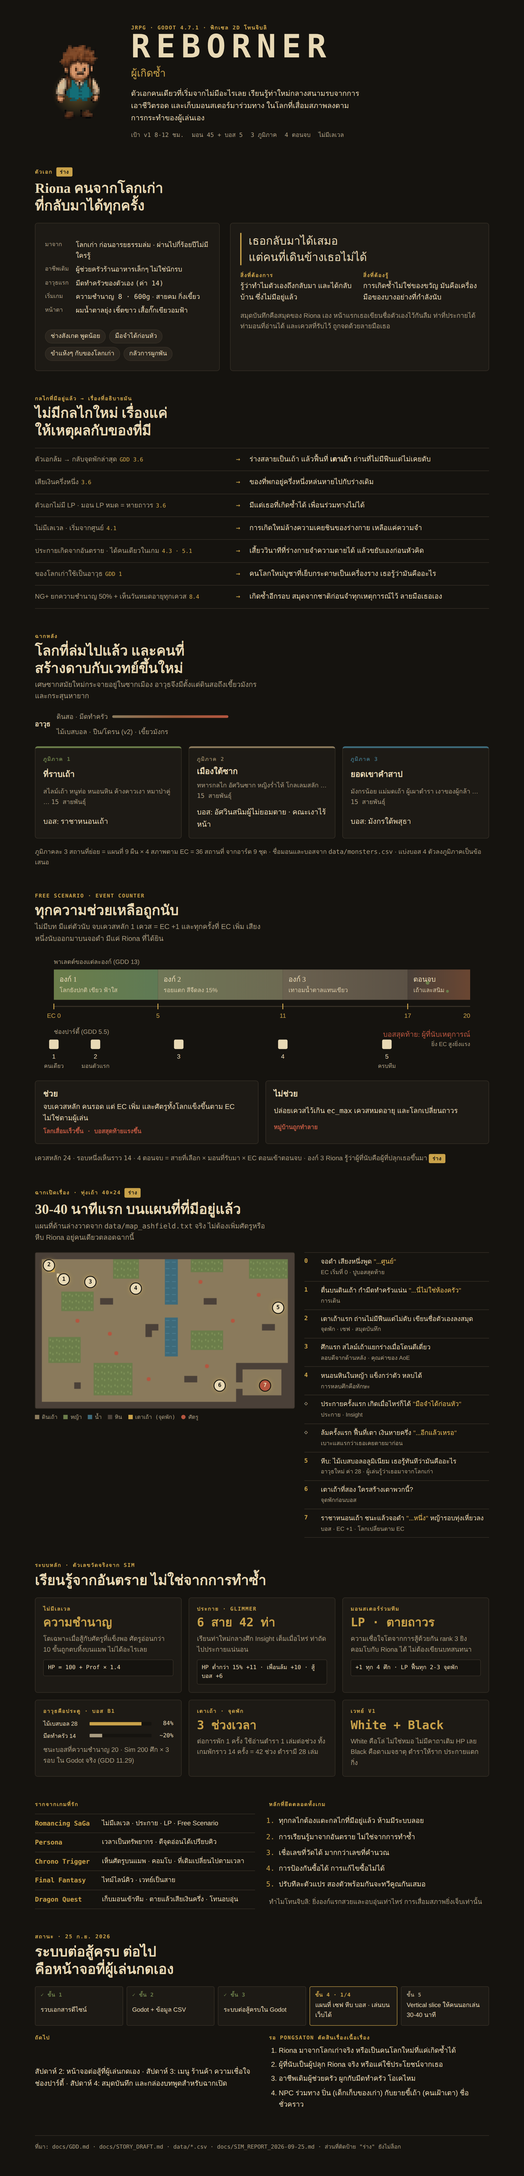
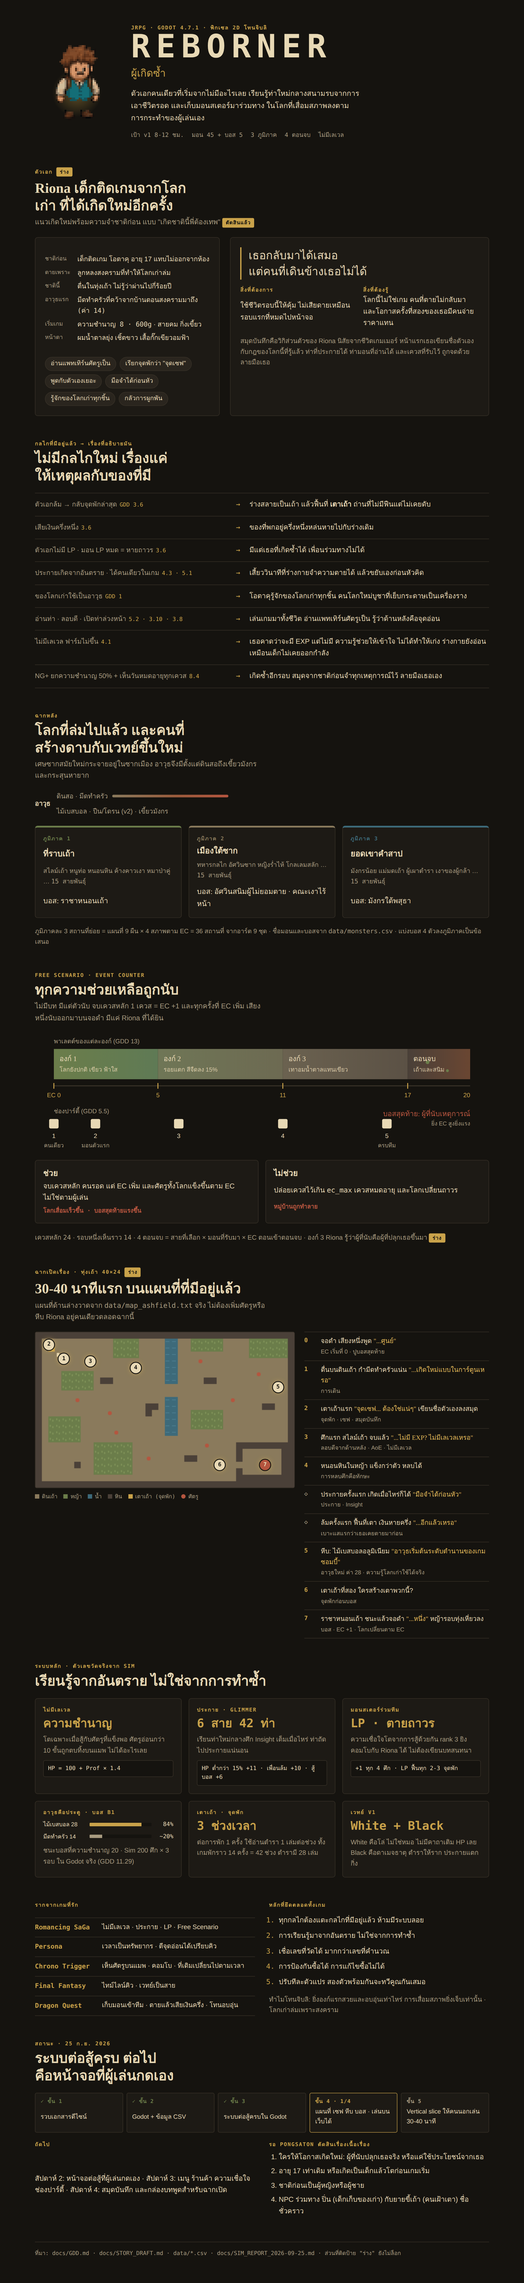
reborner: Riona = reincarnated gamer/otaku killed by war crossfire
Claude-Session: https://claude.ai/code/session_01GQscemcyhAULQ41Vq3Zx3F

diff --git a/reborner/docs/INFOGRAPHIC.html b/reborner/docs/INFOGRAPHIC.html
@@ -203,31 +203,35 @@ footer { color: var(--muted); font: 500 0.8rem/1.6 var(--hud); border-top: 1px s
 <section class="sec">
   <header>
     <span class="label">ตัวเอก <span class="draft">ร่าง</span></span>
-    <h2>Riona คนจากโลกเก่าที่กลับมาได้ทุกครั้ง</h2>
+    <h2>Riona เด็กติดเกมจากโลกเก่า ที่ได้เกิดใหม่อีกครั้ง</h2>
+    <p>แนวเกิดใหม่พร้อมความจำชาติก่อน แบบ "เกิดชาตินี้พี่ต้องเทพ" <span class="draft">ตัดสินแล้ว</span></p>
   </header>
   <div class="riona">
     <div class="card">
       <dl class="stats">
-        <dt>มาจาก</dt><dd>โลกเก่า ก่อนอารยธรรมล่ม · ผ่านไปกี่ร้อยปีไม่มีใครรู้</dd>
-        <dt>อาชีพเดิม</dt><dd>ผู้ช่วยครัวร้านอาหารเล็กๆ ไม่ใช่นักรบ</dd>
-        <dt>อาวุธแรก</dt><dd>มีดทำครัวของตัวเอง <span class="num">(ค่า 14)</span></dd>
+        <dt>ชาติก่อน</dt><dd>เด็กติดเกม โอตาคุ อายุ 17 แทบไม่ออกจากห้อง</dd>
+        <dt>ตายเพราะ</dt><dd>ลูกหลงสงครามที่ทำให้โลกเก่าล่ม</dd>
+        <dt>ชาตินี้</dt><dd>ตื่นในทุ่งเถ้า ไม่รู้ว่าผ่านไปกี่ร้อยปี</dd>
+        <dt>อาวุธแรก</dt><dd>มีดทำครัวที่คว้าจากบ้านตอนสงครามมาถึง <span class="num">(ค่า 14)</span></dd>
         <dt>เริ่มเกม</dt><dd><span class="num">ความชำนาญ 8 · 600g</span> · สายคม กิ่งเขี้ยว</dd>
         <dt>หน้าตา</dt><dd>ผมน้ำตาลยุ่ง เชิ้ตขาว เสื้อกั๊กเขียวอมฟ้า</dd>
       </dl>
       <div class="chips">
-        <span class="chip">ช่างสังเกต พูดน้อย</span>
+        <span class="chip">อ่านแพทเทิร์นศัตรูเป็น</span>
+        <span class="chip">เรียกจุดพักว่า "จุดเซฟ"</span>
+        <span class="chip">พูดกับตัวเองเยอะ</span>
         <span class="chip">มือจำได้ก่อนหัว</span>
-        <span class="chip">ขำแห้งๆ กับของโลกเก่า</span>
+        <span class="chip">รู้จักของโลกเก่าทุกชิ้น</span>
         <span class="chip">กลัวการผูกพัน</span>
       </div>
     </div>
     <div class="card">
       <p class="theme-line">เธอกลับมาได้เสมอ<br>แต่คนที่เดินข้างเธอไม่ได้</p>
       <div class="wantneed">
-        <div><span class="label">สิ่งที่ต้องการ</span><p>รู้ว่าทำไมตัวเองถึงกลับมา และได้กลับบ้าน ซึ่งไม่มีอยู่แล้ว</p></div>
-        <div><span class="label">สิ่งที่ต้องรู้</span><p>การเกิดซ้ำไม่ใช่ของขวัญ มันคือเครื่องมือของบางอย่างที่กำลังนับ</p></div>
+        <div><span class="label">สิ่งที่ต้องการ</span><p>ใช้ชีวิตรอบนี้ให้คุ้ม ไม่เสียดายเหมือนรอบแรกที่หมดไปหน้าจอ</p></div>
+        <div><span class="label">สิ่งที่ต้องรู้</span><p>โลกนี้ไม่ใช่เกม คนที่ตายไม่กลับมา และโอกาสครั้งที่สองของเธอมีคนจ่ายราคาแทน</p></div>
       </div>
-      <p style="color:var(--muted);font-size:0.93rem">สมุดบันทึกคือสมุดของ Riona เอง หน้าแรกเธอเขียนชื่อตัวเองไว้กันลืม ท่าที่ประกายได้ ท่ามอนที่อ่านได้ และเควสที่รับไว้ ถูกจดด้วยลายมือเธอ</p>
+      <p style="color:var(--muted);font-size:0.93rem">สมุดบันทึกคือวิกิส่วนตัวของ Riona นิสัยจากชีวิตเกมเมอร์ หน้าแรกเธอเขียนชื่อตัวเองกับกฎของโลกนี้ที่รู้แล้ว ท่าที่ประกายได้ ท่ามอนที่อ่านได้ และเควสที่รับไว้ ถูกจดด้วยลายมือเธอ</p>
     </div>
   </div>
 </section>
@@ -242,9 +246,10 @@ footer { color: var(--muted); font: 500 0.8rem/1.6 var(--hud); border-top: 1px s
     <div class="mrow"><span class="mech">ตัวเอกล้ม → กลับจุดพักล่าสุด<span class="num">GDD 3.6</span></span><span class="arrow">→</span><span>ร่างสลายเป็นเถ้า แล้วฟื้นที่ <b>เตาเถ้า</b> ถ่านที่ไม่มีฟืนแต่ไม่เคยดับ</span></div>
     <div class="mrow"><span class="mech">เสียเงินครึ่งหนึ่ง<span class="num">3.6</span></span><span class="arrow">→</span><span>ของที่พกอยู่ครึ่งหนึ่งหล่นหายไปกับร่างเดิม</span></div>
     <div class="mrow"><span class="mech">ตัวเอกไม่มี LP · มอน LP หมด = หายถาวร<span class="num">3.6</span></span><span class="arrow">→</span><span>มีแต่เธอที่เกิดซ้ำได้ เพื่อนร่วมทางไม่ได้</span></div>
-    <div class="mrow"><span class="mech">ไม่มีเลเวล · เริ่มจากศูนย์<span class="num">4.1</span></span><span class="arrow">→</span><span>การเกิดใหม่ล้างความเคยชินของร่างกาย เหลือแค่ความจำ</span></div>
-    <div class="mrow"><span class="mech">ประกายเกิดจากอันตราย · ได้คนเดียวในเกม<span class="num">4.3 · 5.1</span></span><span class="arrow">→</span><span>เสี้ยววินาทีที่ร่างกายจำความตายได้ แล้วขยับเองก่อนหัวคิด</span></div>
-    <div class="mrow"><span class="mech">ของโลกเก่าใช้เป็นอาวุธ<span class="num">GDD 1</span></span><span class="arrow">→</span><span>คนโลกใหม่บูชาที่เย็บกระดาษเป็นเครื่องราง เธอรู้ว่ามันคืออะไร</span></div>
+        <div class="mrow"><span class="mech">ประกายเกิดจากอันตราย · ได้คนเดียวในเกม<span class="num">4.3 · 5.1</span></span><span class="arrow">→</span><span>เสี้ยววินาทีที่ร่างกายจำความตายได้ แล้วขยับเองก่อนหัวคิด</span></div>
+    <div class="mrow"><span class="mech">ของโลกเก่าใช้เป็นอาวุธ<span class="num">GDD 1</span></span><span class="arrow">→</span><span>โอตาคุรู้จักของโลกเก่าทุกชิ้น คนโลกใหม่บูชาที่เย็บกระดาษเป็นเครื่องราง</span></div>
+    <div class="mrow"><span class="mech">อ่านท่า · ลอบตี · เปิดท่าล่วงหน้า<span class="num">5.2 · 3.10 · 3.8</span></span><span class="arrow">→</span><span>เล่นเกมมาทั้งชีวิต อ่านแพทเทิร์นศัตรูเป็น รู้ว่าด้านหลังคือจุดอ่อน</span></div>
+    <div class="mrow"><span class="mech">ไม่มีเลเวล ฟาร์มไม่ขึ้น<span class="num">4.1</span></span><span class="arrow">→</span><span>เธอคาดว่าจะมี EXP แต่ไม่มี ความรู้ช่วยให้เข้าใจ ไม่ได้ทำให้เก่ง ร่างกายยังอ่อนเหมือนเด็กไม่เคยออกกำลัง</span></div>
     <div class="mrow"><span class="mech">NG+ ยกความชำนาญ 50% + เห็นวันหมดอายุทุกเควส<span class="num">8.4</span></span><span class="arrow">→</span><span>เกิดซ้ำอีกรอบ สมุดจากชาติก่อนจำทุกเหตุการณ์ไว้ ลายมือเธอเอง</span></div>
   </div>
 </section>
@@ -378,13 +383,13 @@ footer { color: var(--muted); font: 500 0.8rem/1.6 var(--hud); border-top: 1px s
     </div>
     <ol class="beats">
       <li><span class="n">0</span><span class="t">จอดำ เสียงหนึ่งพูด <span class="quote">"...ศูนย์"</span><span class="m">EC เริ่มที่ 0 · ปูบอสสุดท้าย</span></span></li>
-      <li><span class="n">1</span><span class="t">ตื่นบนดินเถ้า กำมีดทำครัวแน่น <span class="quote">"...นี่ไม่ใช่ห้องครัว"</span><span class="m">การเดิน</span></span></li>
-      <li><span class="n">2</span><span class="t">เตาเถ้าแรก ถ่านไม่มีฟืนแต่ไม่ดับ เขียนชื่อตัวเองลงสมุด<span class="m">จุดพัก · เซฟ · สมุดบันทึก</span></span></li>
-      <li><span class="n">3</span><span class="t">ศึกแรก สไลม์เถ้าแยกร่างเมื่อโดนตีเดี่ยว<span class="m">ลอบตีจากด้านหลัง · คุณค่าของ AoE</span></span></li>
+      <li><span class="n">1</span><span class="t">ตื่นบนดินเถ้า กำมีดทำครัวแน่น <span class="quote">"...เกิดใหม่แบบในการ์ตูนเหรอ"</span><span class="m">การเดิน</span></span></li>
+      <li><span class="n">2</span><span class="t">เตาเถ้าแรก <span class="quote">"จุดเซฟ... ต้องใช่แน่ๆ"</span> เขียนชื่อตัวเองลงสมุด<span class="m">จุดพัก · เซฟ · สมุดบันทึก</span></span></li>
+      <li><span class="n">3</span><span class="t">ศึกแรก สไลม์เถ้า จบแล้ว <span class="quote">"...ไม่มี EXP? ไม่มีเลเวลเหรอ"</span><span class="m">ลอบตีจากด้านหลัง · AoE · ไม่มีเลเวล</span></span></li>
       <li><span class="n">4</span><span class="t">หนอนหินในหญ้า แข็งกว่าตัว หลบได้<span class="m">การหลบศึกคือทักษะ</span></span></li>
       <li class="ev"><span class="n">◇</span><span class="t">ประกายครั้งแรก เกิดเมื่อไหร่ก็ได้ <span class="quote">"มือจำได้ก่อนหัว"</span><span class="m">ประกาย · Insight</span></span></li>
       <li class="ev"><span class="n">◇</span><span class="t">ล้มครั้งแรก ฟื้นที่เตา เงินหายครึ่ง <span class="quote">"...อีกแล้วเหรอ"</span><span class="m">เบาะแสแรกว่าเธอเคยตายมาก่อน</span></span></li>
-      <li><span class="n">5</span><span class="t">หีบ: ไม้เบสบอลอลูมิเนียม เธอรู้ทันทีว่ามันคืออะไร<span class="m">อาวุธใหม่ ค่า 28 · ผู้เล่นรู้ว่าเธอมาจากโลกเก่า</span></span></li>
+      <li><span class="n">5</span><span class="t">หีบ: ไม้เบสบอลอลูมิเนียม <span class="quote">"อาวุธเริ่มต้นระดับตำนานของเกมซอมบี้"</span><span class="m">อาวุธใหม่ ค่า 28 · ความรู้โลกเก่าใช้ได้จริง</span></span></li>
       <li><span class="n">6</span><span class="t">เตาเถ้าที่สอง ใครสร้างเตาพวกนี้?<span class="m">จุดพักก่อนบอส</span></span></li>
       <li><span class="n">7</span><span class="t">ราชาหนอนเถ้า ชนะแล้วจอดำ <span class="quote">"...หนึ่ง"</span> หญ้ารอบทุ่งเหี่ยวลง<span class="m">บอส · EC +1 · โลกเปลี่ยนตาม EC</span></span></li>
     </ol>
@@ -459,7 +464,7 @@ footer { color: var(--muted); font: 500 0.8rem/1.6 var(--hud); border-top: 1px s
         <li>การป้องกันซื้อได้ การแก้ไขซื้อไม่ได้</li>
         <li>ปรับทีละตัวแปร สองตัวพร้อมกันจะทวีคูณกันเสมอ</li>
       </ol>
-      <p style="color:var(--muted);font-size:0.93rem">ทำไมโทนจิบลิ: ยิ่งองก์แรกสวยและอบอุ่นเท่าไหร่ การเสื่อมสภาพยิ่งเจ็บเท่านั้น</p>
+      <p style="color:var(--muted);font-size:0.93rem">ทำไมโทนจิบลิ: ยิ่งองก์แรกสวยและอบอุ่นเท่าไหร่ การเสื่อมสภาพยิ่งเจ็บเท่านั้น · โลกเก่าล่มเพราะสงคราม</p>
     </div>
   </div>
 </section>
@@ -485,9 +490,9 @@ footer { color: var(--muted); font: 500 0.8rem/1.6 var(--hud); border-top: 1px s
     <div class="sec" style="gap:10px">
       <span class="label">รอ Pongsaton ตัดสินเรื่องเนื้อเรื่อง</span>
       <ol class="open-q">
-        <li>Riona มาจากโลกเก่าจริง หรือเป็นคนโลกใหม่ที่แค่เกิดซ้ำได้</li>
-        <li>ผู้ที่นับเป็นผู้ปลุก Riona จริง หรือแค่ใช้ประโยชน์จากเธอ</li>
-        <li>อาชีพเดิมผู้ช่วยครัว ผูกกับมีดทำครัว โอเคไหม</li>
+        <li>ใครให้โอกาสเกิดใหม่: ผู้ที่นับปลุกเธอจริง หรือแค่ใช้ประโยชน์จากเธอ</li>
+        <li>อายุ 17 เท่าเดิม หรือเกิดเป็นเด็กแล้วโตก่อนเกมเริ่ม</li>
+        <li>ชาติก่อนเป็นผู้หญิงหรือผู้ชาย</li>
         <li>NPC ร่วมทาง ปิ่น (เด็กเก็บของเก่า) กับยายขี้เถ้า (คนเฝ้าเตา) ชื่อชั่วคราว</li>
       </ol>
     </div>

diff --git a/reborner/docs/STORY_DRAFT.md b/reborner/docs/STORY_DRAFT.md
@@ -9,7 +9,7 @@
 ## 1. ชื่อเกมหมายถึงอะไร
 
 **REBORNER = ผู้เกิดซ้ำ** คนที่ตายแล้วกลับมา
-ในโลกของเกมมีคนแบบนี้แค่คนเดียวที่ใครรู้จัก คือ Riona
+ในโลกของเกมมีคนแบบนี้แค่คนเดียวที่ใครรู้จัก คือ Riona เด็กติดเกมจากโลกเก่าที่ตายเพราะลูกหลงสงคราม
 
 | กลไกใน GDD | เรื่องอธิบายว่า |
 |---|---|
@@ -25,26 +25,43 @@
 
 ## 2. Riona
 
+> ✅ Pongsaton ตัดสินแล้ว (25 ก.ย. 2026): แนว **เกิดใหม่แบบ "เกิดชาตินี้พี่ต้องเทพ"**
+> ตายเพราะลูกหลงสงครามในอารยธรรมเก่า ได้โอกาสใช้ชีวิตใหม่ โดยยังจำชีวิตเดิมได้ ชีวิตเดิมเป็นโอตาคุและเด็กติดเกม
+> ยืมแค่โครง "เกิดใหม่พร้อมความรู้เดิม + ชีวิตแรกที่เสียดาย" ไม่ยืมตัวละคร ฉาก หรือเหตุการณ์ของเรื่องนั้น
+
 ### ใครคือ Riona
-- **คนจากโลกเก่า** เคยเป็นผู้ช่วยครัวในร้านอาหารเล็กๆ ก่อนอารยธรรมล่ม ไม่ใช่นักรบ ไม่ใช่ผู้ถูกเลือก
-- ตายไปพร้อมโลกเก่า แล้วตื่นขึ้นกลางทุ่งเถ้า **ไม่มีใครรู้ว่าผ่านไปกี่ร้อยปี** รวมถึงตัวเธอเอง
-- ของชิ้นเดียวที่ติดมาคือ **มีดทำครัวของตัวเอง** (อาวุธเริ่มต้น `PlayerState` · ค่า 14)
+- **ชาติก่อน:** เด็กติดเกมและโอตาคุในโลกเก่า อายุ 17 ใช้ชีวิตเกือบทั้งหมดอยู่หน้าจอ ไม่ค่อยออกจากห้อง
+- **ตาย:** เพราะลูกหลงสงครามที่ทำให้อารยธรรมเก่าล่มสลาย ไม่ได้เป็นทหาร ไม่ได้สู้ แค่อยู่ผิดที่ผิดเวลา
+  ตอนนั้นในมือมี **มีดทำครัว** ที่คว้ามาจากครัวที่บ้าน → อาวุธเริ่มต้น (`PlayerState` · ค่า 14)
+- **ชาตินี้:** ตื่นขึ้นในทุ่งเถ้าในร่างอายุเท่าเดิม ไม่รู้ว่าผ่านไปกี่ร้อยปี
+  เป็นโอกาสครั้งที่สองที่เธอตั้งใจว่า **"รอบนี้จะใช้ชีวิตจริงๆ"**
 - หน้าตาตามเฟรมที่มีแล้วใน `assets/sprites/hero/`: ผมน้ำตาลสั้นยุ่ง เสื้อเชิ้ตขาวใต้เสื้อกั๊กเขียวอมฟ้า กางเกงเขียวเข้ม รองเท้าบูทน้ำตาล
 
+### ความรู้เดิมจากชีวิตเกมเมอร์ = เหตุผลของกลไก
+| ความรู้เดิม | ผูกกับกลไก |
+|---|---|
+| เล่นเกมมาทั้งชีวิต อ่านแพทเทิร์นศัตรูเป็น | อ่านท่า (5.2) · เปิดท่าล่วงหน้า/ขัดจังหวะ (3.8) |
+| รู้ว่าเข้าหาจากด้านหลังได้เปรียบ | ลอบตี ×0.4 (3.10) |
+| ติดนิสัยจดวิกิเกมเอง | สมุดบันทึก (GDD 15 ขาดไม่ได้) |
+| เรียกจุดพักว่า "จุดเซฟ" | จุดพัก = เซฟ (สัปดาห์ 1 มีแล้ว) |
+| โอตาคุ รู้จักของโลกเก่าทุกชิ้น คนโลกใหม่บูชาเป็นเครื่องราง | อาวุธจากเศษซากสมัยใหม่ (ฉากหลัง GDD 1) |
+| **คาดว่าจะมีเลเวล มี EXP → ไม่มี** | ไม่มีเลเวล ฟาร์มไม่ขึ้น (4.1) ← มุกที่สอนผู้เล่นไปพร้อมกัน |
+
+ความรู้ของเธอ **ช่วยให้เข้าใจ ไม่ได้ทำให้เก่ง** ร่างกายยังอ่อนเหมือนเด็กที่ไม่เคยออกกำลังกาย ต้องเรียนจากอันตรายจริงเท่านั้น → ความชำนาญเริ่มที่ 8
+
 ### นิสัย
-- **ช่างสังเกต พูดน้อย** เรียนจากการดู ไม่ใช่จากการฟัง → ตรงกับกลไก "อ่านท่า" (5.2)
-- **ทำเป็นก่อนเข้าใจ** มือจำได้ก่อนหัว → ตรงกับประกาย
-- **ขำแห้งๆ กับของโลกเก่า** คนในโลกใหม่บูชาที่เย็บกระดาษเป็นเครื่องราง เธอรู้ว่ามันคือที่เย็บกระดาษ
-  → อธิบายว่าทำไมเธอหยิบของเก่ามาใช้เป็นอาวุธได้ทันที ในขณะที่คนอื่นไม่กล้าแตะ (ฉากหลัง GDD 1)
-- **กลัวการผูกพัน** เพราะรู้ว่าตัวเองกลับมาได้แต่คนอื่นไม่ได้ → ความเชื่อใจของมอนจึงโตจากการสู้ด้วยกัน ไม่ใช่จากบทสนทนา (5.4)
+- **ช่างสังเกต พูดน้อยกับคน แต่พูดกับตัวเองเยอะ** บทพูดส่วนใหญ่เป็นเสียงในหัว เหมาะกับจอเล็กและไม่ต้องมี NPC ตอบ
+- **มองโลกเป็นเกมก่อน แล้วค่อยๆ เลิก** องก์ 1 เรียกทุกอย่างด้วยศัพท์เกม ("จุดเซฟ" "มอนขยะ" "บอส")
+  พอมอนตัวแรกตายถาวร เธอเลิกเรียกมันว่า "มอน" ← เส้นพัฒนาการที่วัดได้จากบทพูด ไม่ต้องมีฉากเพิ่ม
+- **กลัวการผูกพัน** ชีวิตก่อนหนีคนมาตลอด ชาตินี้กลับมาได้เรื่อยๆ แต่คนอื่นไม่ได้ → ความเชื่อใจของมอนโตจากการสู้ด้วยกัน ไม่ใช่จากบทสนทนา (5.4)
 
 ### สิ่งที่เธอต้องการ vs สิ่งที่เธอจำเป็นต้องรู้
-- **ต้องการ:** รู้ว่าทำไมตัวเองถึงกลับมา และกลับบ้าน (ซึ่งไม่มีอยู่แล้ว)
-- **จำเป็นต้องรู้:** การกลับมาได้เรื่อยๆ ไม่ใช่ของขวัญ มันคือเครื่องมือของอะไรบางอย่างที่กำลังนับ
+- **ต้องการ:** ใช้ชีวิตรอบนี้ให้คุ้ม ไม่เสียดายเหมือนรอบแรก
+- **จำเป็นต้องรู้:** โลกนี้ไม่ใช่เกม คนที่ตายไม่กลับมา และโอกาสครั้งที่สองของเธอมีคนจ่ายราคาแทน
 
 ### สมุดบันทึก
-- ระบบที่ GDD 15 บอกว่าขาดไม่ได้ ทำให้เป็น **สมุดของ Riona เอง**
-- หน้าแรกเธอเขียนชื่อตัวเองไว้ "กันลืม" ท่าที่ประกายได้ ท่ามอนที่อ่านได้ และเควสที่รับไว้ ถูกบันทึกด้วยลายมือเธอ
+- ระบบที่ GDD 15 บอกว่าขาดไม่ได้ ทำให้เป็น **สมุดวิกิส่วนตัวของ Riona** นิสัยจากชีวิตเกมเมอร์
+- หน้าแรกเธอเขียนชื่อตัวเองกับ "กฎของโลกนี้ที่รู้แล้ว" ท่าที่ประกายได้ ท่ามอนที่อ่านได้ และเควสที่รับไว้ ถูกจดด้วยลายมือเธอ
 - NG+: สมุดเล่มเดิมอยู่ที่เตาเถ้าแรก ลายมือเดียวกัน แต่เธอจำไม่ได้ว่าเขียน
 
 ---
@@ -73,13 +90,13 @@
 | # | ที่ไหนบนแผนที่ | เกิดอะไร | กลไกที่สอน |
 |---|---|---|---|
 | 0 | จอดำ | เสียงหนึ่งพูดว่า "...ศูนย์" | EC เริ่มที่ 0 · ปูบอสสุดท้าย |
-| 1 | `H` (มุมซ้ายบน) | Riona ตื่นบนดินเถ้า กำมีดทำครัวแน่น "...นี่ไม่ใช่ห้องครัว" | การเดิน |
-| 2 | `R` ข้าง `H` | เตาหินเล็กๆ มีถ่านแดงที่ไม่มีฟืนแต่ไม่ดับ เธอนั่งลง เปิดสมุดเปล่า เขียนชื่อตัวเองไว้หน้าแรก | จุดพัก · เซฟ · SP เต็ม · สมุดบันทึก |
-| 3 | `1` สไลม์เถ้า | ศึกแรก สไลม์แยกร่างเมื่อโดนตีเดี่ยว | ลอบตีจากด้านหลัง (×0.4) · คุณค่าของ AoE |
+| 1 | `H` (มุมซ้ายบน) | Riona ตื่นบนดินเถ้า กำมีดทำครัวแน่น ภาพสุดท้ายที่จำได้คือแสงระเบิด "...นี่มันเกิดใหม่แบบในการ์ตูนเหรอ" | การเดิน |
+| 2 | `R` ข้าง `H` | เตาหินเล็กๆ มีถ่านแดงที่ไม่มีฟืนแต่ไม่ดับ "จุดเซฟ... ต้องใช่แน่ๆ" เปิดสมุดเปล่า เขียนชื่อตัวเองไว้หน้าแรก | จุดพัก · เซฟ · SP เต็ม · สมุดบันทึก |
+| 3 | `1` สไลม์เถ้า | ศึกแรก สไลม์แยกร่างเมื่อโดนตีเดี่ยว จบศึกแล้ว "...ไม่มี EXP? ไม่มีเลเวลเหรอ" | ลอบตีจากด้านหลัง (×0.4) · คุณค่าของ AoE · ไม่มีเลเวล |
 | 4 | หญ้า `,` + `2` หนอนหิน | ศัตรูแข็งกว่าตัว ผู้เล่นเลือกหลบได้ | การหลบศึกเป็นทักษะ (3.10) |
-| ◇ | ครั้งแรกที่ประกาย (เกิดเมื่อไหร่ก็ได้) | จอหยุดครึ่งวินาที "มือจำได้ก่อนหัว" ชื่อท่าถูกเขียนลงสมุด | ประกาย · Insight |
+| ◇ | ครั้งแรกที่ประกาย (เกิดเมื่อไหร่ก็ได้) | จอหยุดครึ่งวินาที "มือจำได้ก่อนหัว... นี่แหละวิธีเก่งของโลกนี้" ชื่อท่าถูกเขียนลงสมุด | ประกาย · Insight |
 | ◇ | ครั้งแรกที่ล้ม (ถ้าเกิด) | ร่างสลายเป็นเถ้า ตื่นที่เตาเถ้า เงินหายครึ่ง "...อีกแล้วเหรอ" ← คำว่า "อีกแล้ว" คือเบาะแสแรกว่าเธอเคยตายมาก่อน | ความตาย · ค่าปรับ |
-| 5 | `a` หีบฝั่งตะวันออก | ไม้เบสบอลอลูมิเนียม "ใครเอามาทิ้งไว้กลางทุ่ง" เธอรู้ทันทีว่ามันคืออะไร ← ผู้เล่นรู้ครั้งแรกว่าเธอมาจากโลกเก่า | อาวุธใหม่ (ค่า 28) · ประตูอาวุธ (GDD 11.29) |
+| 5 | `a` หีบฝั่งตะวันออก | ไม้เบสบอลอลูมิเนียม "อาวุธเริ่มต้นระดับตำนานของเกมซอมบี้" เธอรู้ทันทีว่ามันคืออะไร ← ผู้เล่นเห็นว่าความรู้โลกเก่าของเธอใช้ได้จริง | อาวุธใหม่ (ค่า 28) · ประตูอาวุธ (GDD 11.29) |
 | 6 | `R` ก่อนห้องบอส (ขวาล่าง) | เตาเถ้าที่สอง เธอเริ่มสงสัยว่าใครสร้างเตาพวกนี้ | จุดพักก่อนบอส |
 | 7 | `B` ราชาหนอนเถ้า | บอสแรก ชนะแล้วจอดำ เสียงเดิม "...หนึ่ง" · หญ้ารอบทุ่งเหี่ยวลงนิดหนึ่ง | บอส · EC +1 · โลกเปลี่ยนตาม EC |
 
@@ -110,8 +127,10 @@
 ---
 
 ## 6. คำถามที่ต้องให้ Pongsaton ตัดสิน
-1. Riona มาจากโลกเก่าจริงไหม หรือเป็นคนโลกใหม่ที่แค่เกิดซ้ำได้ (ถ้าเป็นคนโลกใหม่ จะเสียมุก "รู้จักของเก่า" แต่เรื่องลึกลับขึ้น)
-2. ผู้ที่นับเหตุการณ์เป็น "ผู้ปลุก" Riona จริงไหม หรือแค่ใช้ประโยชน์จากเธอ
-3. อาชีพเดิมผู้ช่วยครัว โอเคไหม (ผูกกับมีดทำครัว)
+- ~~Riona มาจากโลกเก่าจริงไหม~~ → ✅ ใช่ เด็กติดเกม/โอตาคุ ตายเพราะลูกหลงสงคราม (25 ก.ย. 2026)
+- ~~อาชีพเดิมผู้ช่วยครัว~~ → ✅ เปลี่ยนเป็นเด็กติดเกม มีดทำครัวคือของที่คว้ามาจากครัวที่บ้านตอนสงครามมาถึง
+- ~~อะไรทำให้อารยธรรมล่ม~~ → ✅ บางส่วน: สงคราม (ใครรบกับใคร ทำไม ยังเปิดไว้)
+1. ใครให้โอกาสเกิดใหม่: ผู้ที่นับเหตุการณ์ปลุกเธอจริงไหม หรือแค่ใช้ประโยชน์จากเธอ
+2. อายุ 17 เท่าเดิม หรือเกิดใหม่เป็นเด็กแล้วโตขึ้นก่อนเกมเริ่ม (แบบหลังต้องมีฉากวัยเด็ก = งานเพิ่ม)
+3. ผู้หญิงหรือผู้ชายในชาติก่อน (ตอนนี้ร่างเป็นผู้หญิงตามสไปรต์ · ถ้าชาติก่อนเป็นผู้ชายจะเป็นมุมเล่าเรื่องอีกแบบ)
 4. ชื่อ ปิ่น / ยายขี้เถ้า เป็นชื่อชั่วคราว
-5. เรื่องสิ่งที่ทำให้อารยธรรมล่มสลาย ยังไม่ร่าง ตั้งใจเว้นไว้ให้ผู้ที่นับเป็นคำตอบบางส่วน
